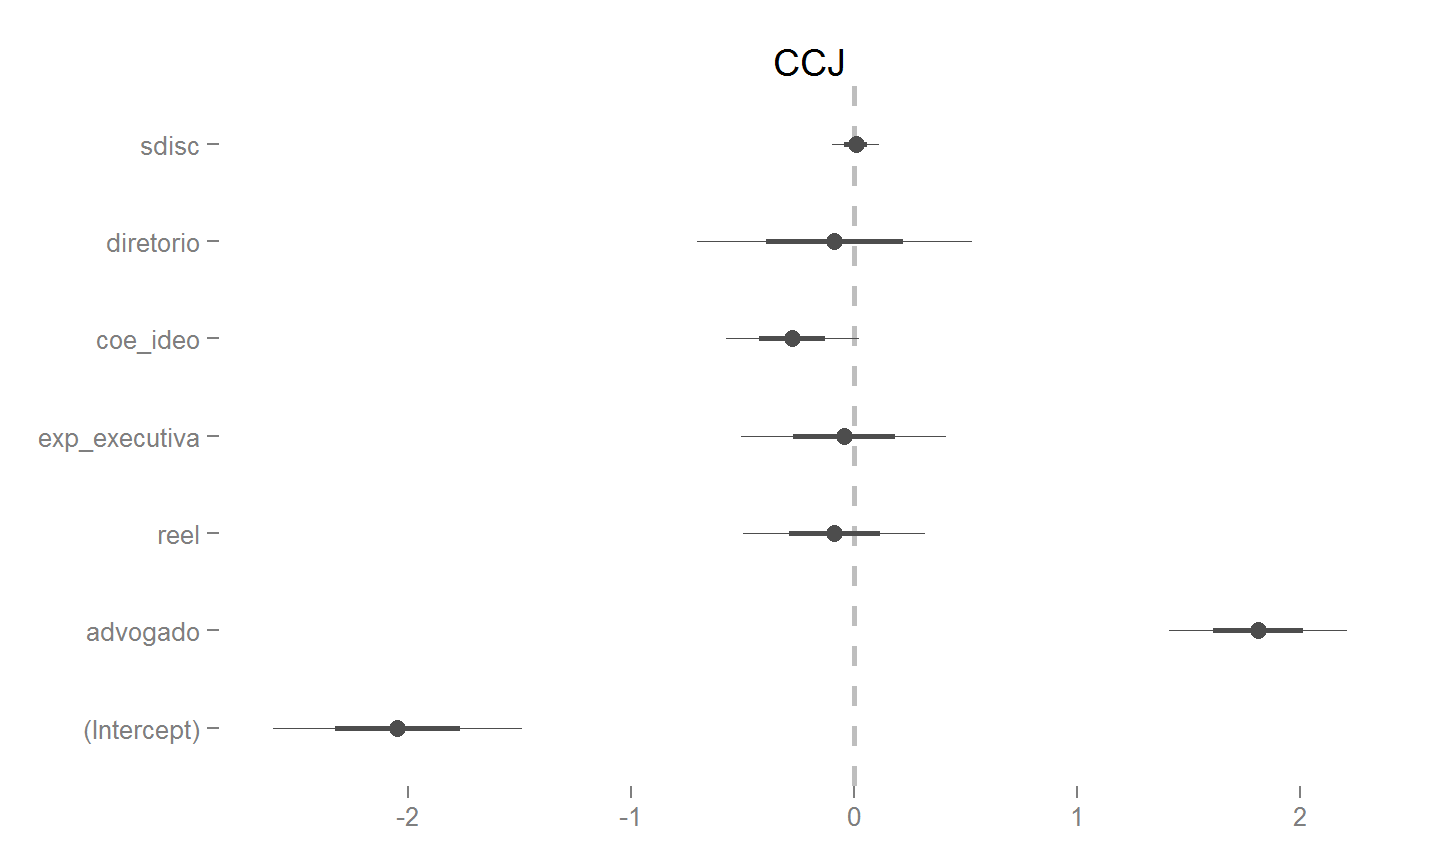
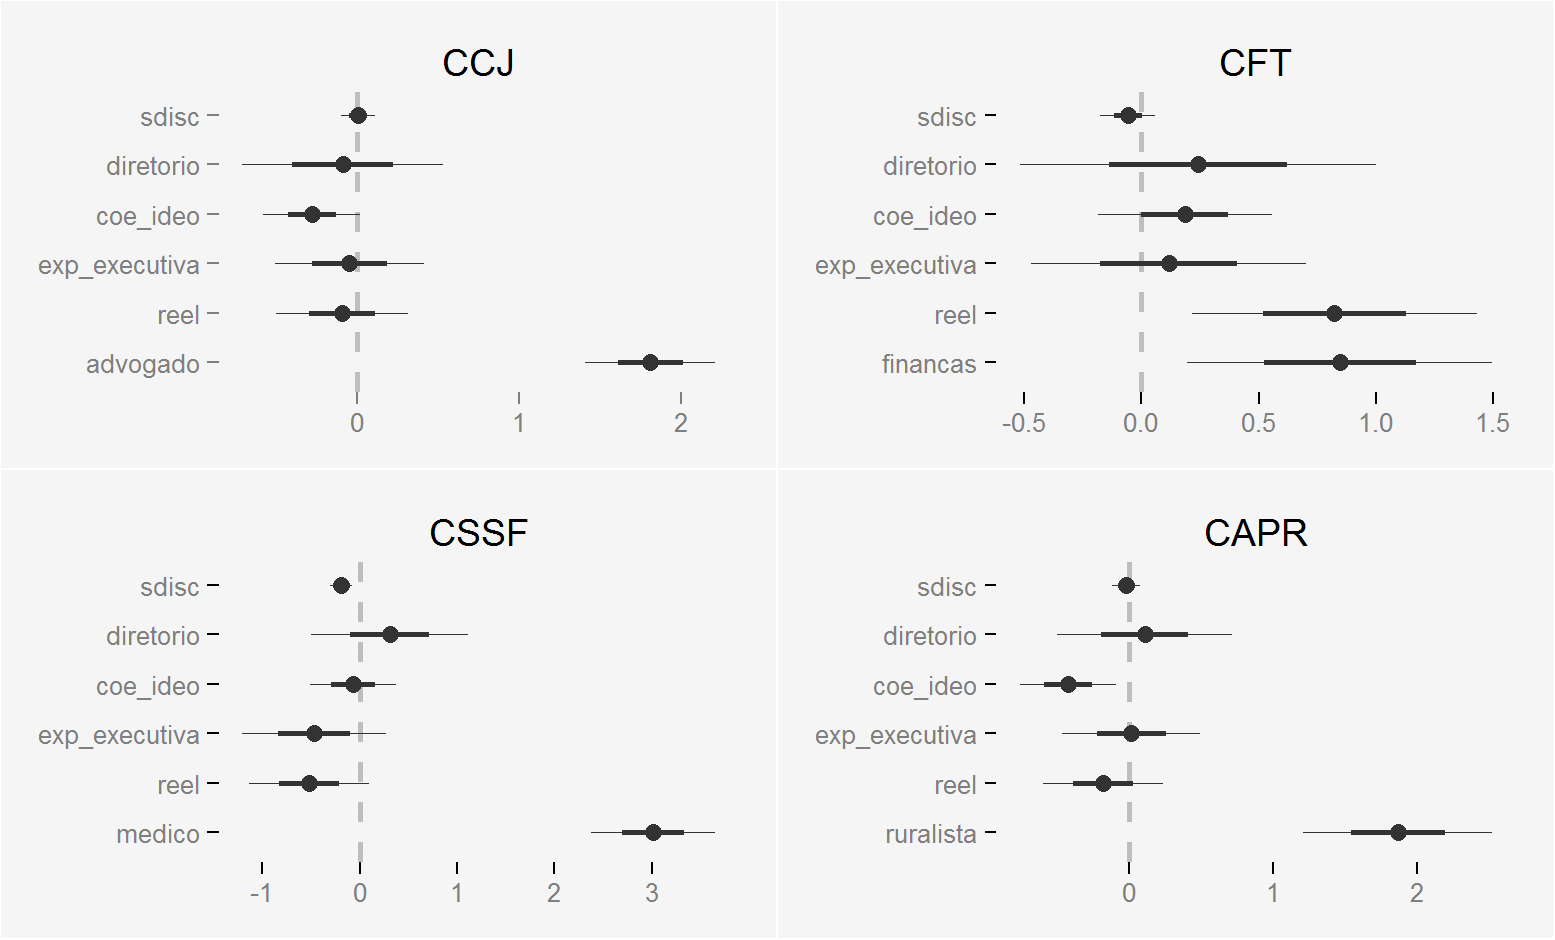
Algumas alterações

diff --git a/index.html b/index.html
@@ -86,18 +86,23 @@
       <h1 data-config-title><!-- populated from slide_config.json --></h1>
       <h2 data-config-subtitle><!-- populated from slide_config.json --></h2>
       <p data-config-presenter><!-- populated from slide_config.json --></p>
-            <p style="margin-top: 6px; margin-left: -2px;">Fernando Meireles (UFRGS)</p>
+            <p style="margin-top: 6px; margin-left: -2px;">Fernando Meireles (UFRGS/Capes)</p>
           </hgroup>
   </slide>
 
 <slide class=''><hgroup><h2>Problema</h2></hgroup><article  id="problema">
 
 <ul>
-<li><p>Comissões não são necessárias para o funcionamento de um Congresso. Por que elas existem?</p></li>
-<li><p>Quem entra entra em cada uma delas? E por quê?</p></li>
+<li>Comissões não são necessárias para o funcionamento de um Congresso. Por que elas existem?</li>
 </ul>
 
-<p>Se pudermos responder esta última, podemos inferir a resposta da anterior.</p>
+<ul class = 'build'>
+<li>Quem entra entra em cada uma delas? E por quê?</li>
+</ul>
+
+<ul class = 'build'>
+<li>Se pudermos responder esta última, podemos inferir a resposta da anterior.</li>
+</ul>
 
 </article></slide><slide class=''><hgroup><h2>Modelos</h2></hgroup><article  id="modelos">
 
@@ -126,15 +131,18 @@
 <li>Dependente: pertencer a determinanda Comissão (<em>dummy</em>). <img src="index_files/figure-html/unnamed-chunk-1.png" title="plot of chunk unnamed-chunk-1" alt="plot of chunk unnamed-chunk-1" width="576" style="display: block; margin: auto;" /></li>
 </ul>
 
-</article></slide><slide class=''><hgroup><h2>Resultados (modelo misto - CCJ)</h2></hgroup><article  id="resultados-modelo-misto---ccj">
+</article></slide><slide class=''><hgroup><h2>Resultados (modelos mistos)</h2></hgroup><article  id="resultados-modelos-mistos">
 
-<p><img src="index_files/figure-html/unnamed-chunk-2.png" title="plot of chunk unnamed-chunk-2" alt="plot of chunk unnamed-chunk-2" width="720" /></p>
+<p><img src="index_files/figure-html/unnamed-chunk-2.png" title="plot of chunk unnamed-chunk-2" alt="plot of chunk unnamed-chunk-2" width="777.6" style="display: block; margin: auto auto auto 0;" /></p>
 
-</article></slide><slide class=''><hgroup><h2>Resultados (modelos misto)</h2></hgroup><article  id="resultados-modelos-misto">
+</article></slide><slide class=''><hgroup><h2>Resultados (modelos mistos)</h2></hgroup><article  id="resultados-modelos-mistos-1">
 
 <ul>
-<li><p>Nas outras Comissões analisadas, resultados semelhantes: expertise prévia é o melhor preditor de indicação às Comissões, inclusive para os novatos.</p></li>
-<li><p>Se não se pode incentivar a especialização, pode-se ao menos aproveitar a experiência prévia dos parlamentares.</p></li>
+<li>Expertise prévia é o melhor preditor de indicação às Comissões, inclusive para os novatos.</li>
+</ul>
+
+<ul class = 'build'>
+<li><em>Drawbacks</em>: dependência entre os casos, variável dep. fixa exógenamente e chance condicional às chances das demais observações.</li>
 </ul>
 
 </article></slide><slide class=''><hgroup><h2>Simulação</h2></hgroup><article  id="simulacao">
@@ -145,9 +153,121 @@
 <li><p>Aceitar H1 se <code>p</code> for menor que um \(\alpha\) (e. g., 0.1), onde <code>p</code> é a razão das vezes em que a estatística observada foi maior do que as simuladas.</p></li>
 </ul>
 
-</article></slide><slide class=''><hgroup><h2>Média vs. Mediana</h2></hgroup><article  id="media-vs.-mediana">
+</article></slide><slide class=''><hgroup><h2>Média vs. Mediana (Partido)</h2></hgroup><article  id="media-vs.-mediana-partido">
 
-<p><img src="index_files/figure-html/unnamed-chunk-3.png" title="plot of chunk unnamed-chunk-3" alt="plot of chunk unnamed-chunk-3" width="864" style="display: block; margin: auto;" /></p>
+<p><img src="index_files/figure-html/unnamed-chunk-3.png" title="plot of chunk unnamed-chunk-3" alt="plot of chunk unnamed-chunk-3" width="777.6" style="display: block; margin: auto;" /></p>
+
+</article></slide><slide class=''><hgroup><h2>Média vs. Mediana (Comissão)</h2></hgroup><article  id="media-vs.-mediana-comissao">
+
+<p><img src="index_files/figure-html/unnamed-chunk-4.png" title="plot of chunk unnamed-chunk-4" alt="plot of chunk unnamed-chunk-4" width="777.6" style="display: block; margin: auto;" /></p>
+
+</article></slide><slide class=''><hgroup><h2>Bias pró-H0</h2></hgroup><article  id="bias-pro-h0">
+
+<p><img src="index_files/figure-html/unnamed-chunk-5.png" title="plot of chunk unnamed-chunk-5" alt="plot of chunk unnamed-chunk-5" width="768" style="display: block; margin: auto;" /></p>
+
+</article></slide><slide class=''><hgroup><h2>Resultados (por Comissão/média)</h2></hgroup><article  id="resultados-por-comissaomedia">
+
+<table class = 'rmdtable'>
+<col width="16%" />
+<col width="13%" />
+<col width="22%" />
+<col width="13%" />
+<col width="22%" />
+<tr class="header">
+<th align="left">Comissão</th>
+<th align="left">Leg. 52</th>
+<th align="left">Leg. 52 (gov)</th>
+<th align="left">Leg. 53</th>
+<th align="left">Leg. 53 (gov)</th>
+</tr>
+<tr class="odd">
+<td align="left"><p>CCJ</p></td>
+<td align="left"><p>.38</p></td>
+<td align="left"><p>.93</p></td>
+<td align="left"><p>.65</p></td>
+<td align="left"><p>.91</p></td>
+</tr>
+<tr class="even">
+<td align="left"><p>CFT</p></td>
+<td align="left"><p>.74</p></td>
+<td align="left"><p>.98</p></td>
+<td align="left"><p>.54</p></td>
+<td align="left"><p>.75</p></td>
+</tr>
+<tr class="odd">
+<td align="left"><p>CAPR</p></td>
+<td align="left"><p>.41</p></td>
+<td align="left"><p>.83</p></td>
+<td align="left"><p>.74</p></td>
+<td align="left"><p>.34</p></td>
+</tr>
+<tr class="even">
+<td align="left"><p>CSSF</p></td>
+<td align="left"><p>.89</p></td>
+<td align="left"><p>.84</p></td>
+<td align="left"><p>.97</p></td>
+<td align="left"><p>.54</p></td>
+</tr>
+<tr class="odd">
+<td align="left"><p>CECD</p></td>
+<td align="left"><p>.49</p></td>
+<td align="left"><p>.42</p></td>
+<td align="left"><p>.85</p></td>
+<td align="left"><p>.85</p></td>
+</tr>
+</table>
+
+</article></slide><slide class=''><hgroup><h2>Resultados (por Comissão/mediana)</h2></hgroup><article  id="resultados-por-comissaomediana">
+
+<table class = 'rmdtable'>
+<col width="16%" />
+<col width="13%" />
+<col width="22%" />
+<col width="13%" />
+<col width="22%" />
+<tr class="header">
+<th align="left">Comissão</th>
+<th align="left">Leg. 52</th>
+<th align="left">Leg. 52 (gov)</th>
+<th align="left">Leg. 53</th>
+<th align="left">Leg. 53 (gov)</th>
+</tr>
+<tr class="odd">
+<td align="left"><p>CCJ</p></td>
+<td align="left"><p>.31</p></td>
+<td align="left"><p>.96</p></td>
+<td align="left"><p>.92</p></td>
+<td align="left"><p>.87</p></td>
+</tr>
+<tr class="even">
+<td align="left"><p>CFT</p></td>
+<td align="left"><p>.9</p></td>
+<td align="left"><p>.98</p></td>
+<td align="left"><p>.43</p></td>
+<td align="left"><p>.44</p></td>
+</tr>
+<tr class="odd">
+<td align="left"><p>CAPR</p></td>
+<td align="left"><p>.59</p></td>
+<td align="left"><p>.29</p></td>
+<td align="left"><p>.39</p></td>
+<td align="left"><p>.56</p></td>
+</tr>
+<tr class="even">
+<td align="left"><p>CSSF</p></td>
+<td align="left"><p>.47</p></td>
+<td align="left"><p>.88</p></td>
+<td align="left"><p>.82</p></td>
+<td align="left"><p>.96</p></td>
+</tr>
+<tr class="odd">
+<td align="left"><p>CECD</p></td>
+<td align="left"><p>.83</p></td>
+<td align="left"><p>.53</p></td>
+<td align="left"><p>.15</p></td>
+<td align="left"><p>.85</p></td>
+</tr>
+</table>
 
 </article></slide><slide class=''><hgroup><h2>Resultados (por partido)</h2></hgroup><article  id="resultados-por-partido">
 
@@ -155,9 +275,7 @@
 <li><p>Na CCJ, o PMDB indicou membros significativamente menos disciplinados (gov. e part.) nas duas Legislaturas; na CFT, na Legislatura 52; e na CSSF, na 53;</p></li>
 <li><p>Na CAPR, o PFL indicou membros significativamente mais disciplinados na Legislatura 53;</p></li>
 <li><p>Nos demais casos, nenhum padrão aparente.</p></li>
-</ul>
-
-</article></slide><slide class=''><hgroup><h2>Resultados (por Comissão)</h2></hgroup><article  id="resultados-por-comissao"></article></slide>
+</ul></article></slide>
 
 
   <slide class="backdrop"></slide>

diff --git a/estilo.css b/estilo.css
@@ -1,5 +1,4 @@
 @import url(http://fonts.googleapis.com/css?family=Vollkorn);
-@import url(http://fonts.googleapis.com/css?family=PT+Serif&subset=latin,latin-ext);
 
 .license {
   font-size: 14px;
@@ -8,7 +7,6 @@
   bottom: 30px;
   left: 60px;
 }
-
 
 /* Styles for Title Slide */
 
@@ -19,36 +17,37 @@
 .title-slide hgroup > h1{
   font-family: 'Vollkorn', sans-serif; 
   font-weight:normal;
-  font-size: 48px;
+  font-size: 41.4px;
   position: relative;
-  right: 40px;
+  right: 70px;
   color: #404040;
 }
 
 .title-slide hgroup > h2{
   font-family: 'Vollkorn', 'Calibri', sans-serif;
-  font-size: 22px;
+  font-size: 24px;
   font-weight:normal;
   color: #707070;
   position: relative;
-  right: 37px;
+  right: 65px;
 }
 
 .title-slide hgroup > p{
   font-family: 'Calibri', sans-serif;
-  font-size: 19px;
+  font-size: 17px;
   color: #606060;
   position: relative;
-  right: 35px;
+  right: 60px;
+  line-height:1;
 }
 
 /* Fonts and Spacing */
 article p, article li, article li.build{
-  font-family: 'PT Serif', 'Crimson Text', 'Garamond', 'Palatino', serif;
+  font-family: 'Vollkorn', 'Garamond','Crimson Text', 'Palatino', serif;
   text-align: justify;
-  font-size:22px;
+  font-size:21.7px;
   line-height: 1.5em;
-  color: #5C5C5C;
+  color: #5B5B5B;
 }
 
 slide:not(.segye){
@@ -173,9 +172,17 @@ table {
   font-weight: bolder;
   color: rgb(102, 102, 102);
 }
+
+table.rmdtable {
+  width: 100%;
+  border-collapse: -moz-initial;
+  border-collapse: initial;
+  border-spacing: 2px;
+  border-bottom: none;
+}
 table thead {
-  border-top: 1px solid #BFBEAD;
-  border-bottom: 1px solid #BFBEAD;
+  border-top: none;
+  border-bottom: none;
 }
 table th, table td, table caption {
   margin: 0;
@@ -183,17 +190,20 @@ table th, table td, table caption {
   text-align: left;
   vertical-align: top;
 }
-table th {
-  background: #CFCEBD;
-  color: #575400;
-  text-transform: uppercase;
+table.rmdtable th {
+  color: #F5F5F5;
+  font-size: 18px;
+  background: -webkit-gradient(linear, 50% 0%, 50% 100%, color-stop(40%, #4387fd), color-stop(80%, #2a7cdf)) no-repeat;
+  background: -webkit-linear-gradient(top, #404040 40%, #404040 80%) no-repeat;
+  background: -moz-linear-gradient(top, #404040 40%, #404040 80%) no-repeat;
+  background: -o-linear-gradient(top, #404040 40%, #404040 80%) no-repeat;
+  background: linear-gradient(top, #404040 40%, #404040 80%) no-repeat;
 }
 table td {
-  border-bottom: 1px solid #CFCEBD;
+  border-bottom: none;
 }
-table tr:nth-child(2n+1) {
-/* background: #E8F2FF; */
-  background: #EFEEDD;
+table.rmdtable tr:nth-child(odd) {
+  background-color: #EBEBEB;
 }
 
 /* Styling for Ordered Lists (only for io2012) */
